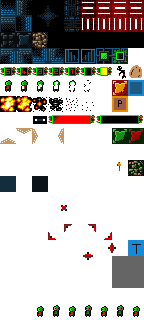
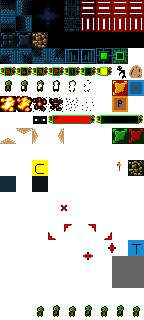
Init commit for minigames

Changed region(s): [[0.2222, 0.5, 0.3333, 0.5625]]

diff --git a/src/scenes/minigame/hunt/hunt.py b/src/scenes/minigame/hunt/hunt.py
@@ -1,0 +1,42 @@
+import pygame
+import src.graphics as graphics
+import src.colours as colours
+import src.config as config
+import src.scenes.scenebase as scene_base
+from src.scenes.minigame.hunt.input_handler import InputHandler
+from src.gui.clickable import Clickable
+from src.resolution_asset_sizer import ResolutionAssetSizer
+from src.game_object.minigame.hunt.player import Player
+from src.tiled_map import TiledMap
+
+class Hunt(scene_base.SceneBase):
+    """The Hunt minigame....pretty much snake"""
+
+    def __init__(self, file):
+        self.file = file
+
+        self.surface = graphics.get_window_surface()
+        self.tiled_map = TiledMap(file, self.surface)
+        self.sprites = self.tiled_map.sprites
+        self.player = self.get_player()
+
+        scene_base.SceneBase.__init__(
+            self, 
+            InputHandler(self),
+            graphics.get_controller()
+        ) 
+
+        self.width, self.height = pygame.display.get_window_size()
+
+    def update(self, delta_time):
+        self.sprites.update(delta_time)
+
+    def render(self):
+        """Renders all the buttons on our escape menu"""
+        self.surface.fill(colours.RED)
+        self.sprites.draw(self.surface)
+
+    def get_player(self):
+        for sprite in self.sprites:
+            if isinstance(sprite, Player):
+                return sprite

diff --git a/src/scenes/level.py b/src/scenes/level.py
@@ -11,6 +11,8 @@ from src.collision_handlers.polling_collision_handler import PollingCollisionHan
 from src.collision_handlers.turn_based_collision_handler import TurnBasedCollisionHandler
 from src.user_data import UserData
 
+from src.scenes.minigame.hunt.hunt import Hunt
+
 
 class Level(scene_base.SceneBase):
     """All levels use this class as the base level.
@@ -88,6 +90,7 @@ class Level(scene_base.SceneBase):
         next_scene, 
         start_menu=False, 
         video_tape_obj=False,
+        minigame=False,
         ):
         """Goes to the next scene. Note that SceneBase is
         sort of similar to a linked list in implementation.
@@ -105,6 +108,9 @@ class Level(scene_base.SceneBase):
         if start_menu:
             self.reset()
             self.next = StartMenu()
+        elif minigame:
+            # hardcoded minigame for now
+            self.next = Hunt(next_scene)
         elif video_tape_obj:
             self.next = TextOverlay(video_tape_obj.text, video_tape_obj.redirect_to)
         else: 

diff --git a/src/tiled_map.py b/src/tiled_map.py
@@ -369,6 +369,27 @@ class TiledMap():
                 },
             }
 
+        if tile_object.type == 'computer_terminal':
+            type_map = {
+                'computer_terminal': {
+                    **common, 
+                    'minigame': tile_object.properties.get('minigame', './data/levels/tmx/minigame-hunt')
+                },
+            }
+        if tile_object.type == 'minigame-hunt-player':
+            type_map = {
+                'minigame-hunt-player': {
+                    **common,
+                },
+            }
+
+        if tile_object.type == 'minigame-hunt-collectible':
+            type_map = {
+                'minigame-hunt-collectible': {
+                    **common,
+                },
+            }
+
         try:
             return factory.build(tile_object.type, **type_map[tile_object.type])
         except KeyError:

diff --git a/src/tile_factory.py b/src/tile_factory.py
@@ -19,6 +19,10 @@ from src.game_object.enemy_bombable import EnemyBombable
 from src.game_object.particle_emitter import ParticleEmitter
 from src.game_object.moving_platform import MovingPlatform
 from src.game_object.moving_laser import MovingLaser
+from src.game_object.computer_terminal import ComputerTerminal
+
+from src.game_object.minigame.hunt.player import Player
+from src.game_object.minigame.hunt.collectible import Collectible
 
 
 class TileFactory():
@@ -59,6 +63,11 @@ class TileFactory():
             'particle_emitter': ParticleEmitter,
             'laser_up': MovingLaser,
             'laser_right': MovingLaser,
+            'computer_terminal': ComputerTerminal,
+
+            # Hunt minigame
+            'minigame-hunt-player': Player,
+            'minigame-hunt-collectible': Collectible,
         }
 
         return tile_map[tile_type](**kwargs)

diff --git a/src/scenes/minigame/hunt/input_handler.py b/src/scenes/minigame/hunt/input_handler.py
@@ -1,0 +1,18 @@
+from src.event_command import EventCommand
+import src.static_scenes
+
+class InputHandler():
+    def __init__ (self, game):
+        self.game = game
+
+    def process_input(self, event):
+        if event['key'] == EventCommand.UP:
+            self.game.player.direction = EventCommand.UP
+        if event['key'] == EventCommand.DOWN:
+            self.game.player.direction = EventCommand.DOWN
+        if event['key'] == EventCommand.LEFT:
+            self.game.player.direction = EventCommand.LEFT
+        if event['key'] == EventCommand.RIGHT:
+            self.game.player.direction = EventCommand.RIGHT
+        if event['key'] == EventCommand.ACTION:
+            crash_the_game()

diff --git a/src/game_object/computer_terminal.py b/src/game_object/computer_terminal.py
@@ -1,0 +1,17 @@
+import src.entity as entity
+import src.static_scenes
+import src.colours as colours
+
+class ComputerTerminal(entity.Entity):
+    def __init__(self, x, y, width, height, minigame, image=None):
+        entity.Entity.__init__(self, x, y, width, height, image)
+        self.minimap_colour = colours.WHITE
+        self.minigame = minigame
+
+    def handle_collision(self, tile, player, level):
+        if player.destination[0] == self.rect.x and player.destination[1] == self.rect.y:
+            self.image.fill((255,0,0))
+            level.switch_to_scene(self.minigame, minigame=True);
+
+    def handle_pre_bomb_particle_creation(self, level):
+        return False

diff --git a/src/game_object/minigame/hunt/player.py b/src/game_object/minigame/hunt/player.py
@@ -1,0 +1,21 @@
+from src.entity import Entity
+import src.graphics as graphics
+from src.movement_vector import vector
+
+class Player(Entity):
+
+    def __init__(
+            self, 
+            x: int, 
+            y: int, 
+            width: int, 
+            height: int, 
+            image=None
+        ):
+        self.speed = 2
+        self.direction = 'nothing'
+        Entity.__init__(self, x, y, width, height, image)
+
+    def update(self, delta_time):
+        self.rect.x += self.speed * vector[self.direction][0]
+        self.rect.y += self.speed * vector[self.direction][1]

diff --git a/src/graphics.py b/src/graphics.py
@@ -34,8 +34,8 @@ def get_controller():
     return controller
 
 def get_window_surface():
-    # return pygame.display.set_mode((800, 800), pygame.NOFRAME)
-    return pygame.display.set_mode((0, 0), pygame.NOFRAME)
+    return pygame.display.set_mode((800, 800), pygame.NOFRAME)
+    # return pygame.display.set_mode((0, 0), pygame.NOFRAME)
 
 def grid(x: int, y: int):
     """

diff --git a/src/game_object/minigame/hunt/collectible.py b/src/game_object/minigame/hunt/collectible.py
@@ -1,0 +1,13 @@
+from src.entity import Entity
+
+class Collectible(Entity):
+
+    def __init__(
+            self, 
+            x: int, 
+            y: int, 
+            width: int, 
+            height: int, 
+            image=None
+        ):
+        Entity.__init__(self, x, y, width, height, image)
